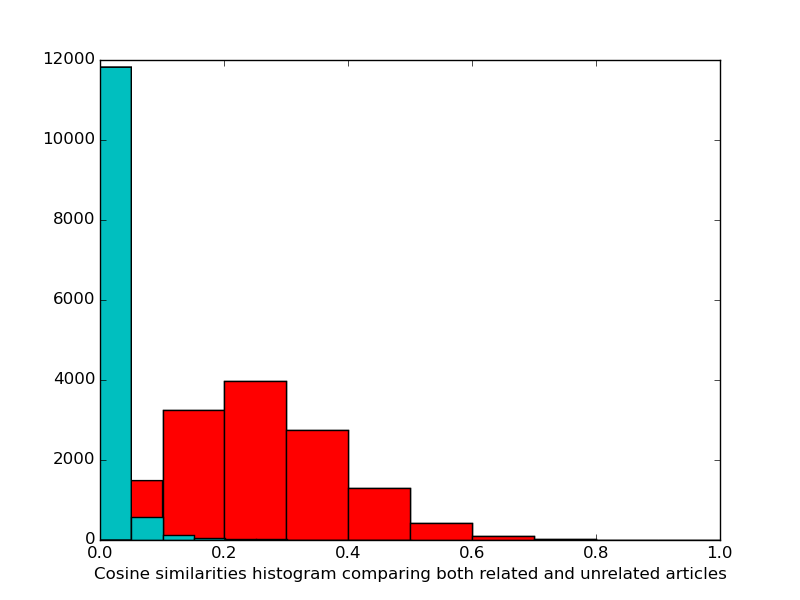
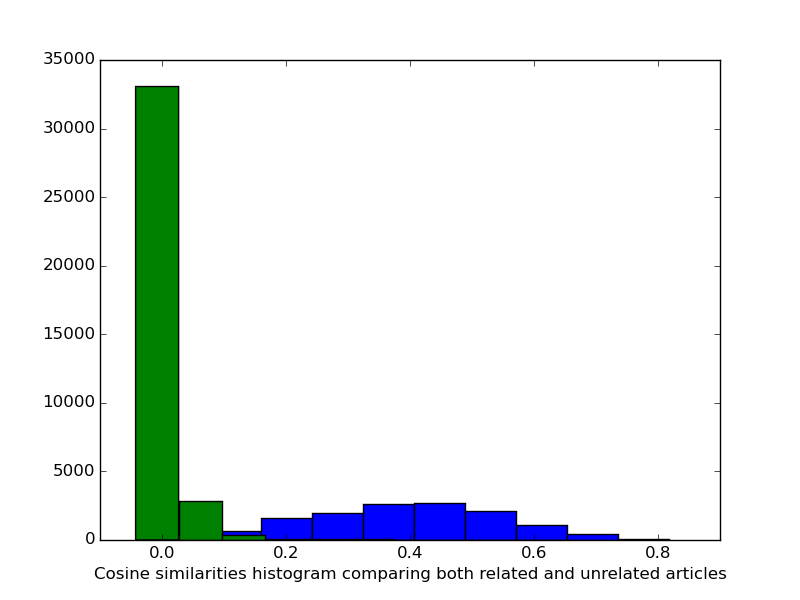
Adding LSI

Changed region(s): [[0.0312, 0.09, 0.8438, 0.93], [0.875, 0.9, 0.9062, 0.93], [0.0625, 0.09, 0.0938, 0.12]]

diff --git a/FncPart1.py b/FncPart1.py
@@ -44,15 +44,15 @@ bodyIds = TrainBodies['Body ID']
 bodyText = TrainBodies['articleBody'] 
 
 bodyText = np.array(bodyText)
+bodyTextOrig = bodyText
 bodyIds = np.array(bodyIds)
-
 bodyText = [line.lower().split() for line in bodyText]
-#bodyText = [[lemmatizer.lemmatize(re.sub('[^a-zA-Z0-9]', '',word)) for word in text if word not in stop] for text in bodyText]
-bodyText = [[(re.sub('[^a-zA-Z0-9]', '',word)) for word in text if word not in stop] for text in bodyText]
+bodyText = [[lemmatizer.lemmatize(re.sub('[^a-zA-Z0-9]', '',word)) for word in text if word not in stop] for text in bodyText]
+
 #create the dictionary for article bodies
 
 bodyDict = dict(zip(bodyIds,bodyText))
-
+bodyDictOrig = dict(zip(bodyIds,bodyTextOrig))
 #create the dictionary of words
 
 dictionary = corpora.Dictionary(bodyDict.values())
@@ -61,39 +61,49 @@ tfIdf = models.TfidfModel(CorporaFNCbody)
 
 FncTfidf = tfIdf[CorporaFNCbody]
 bodyDictString = dict(zip(bodyDict.keys(),range(0,len(bodyDict.values())))) 
-
+#define LSI and number of topics (k)
+lsi = models.LsiModel(FncTfidf, id2word=dictionary, num_topics=150)
+#LSI matrix for FNC body corpus
+FncLsi = lsi[FncTfidf]
 #create the stance corpora 
 
 sents = TrainStances['Headline']
+
 sents = [sent.lower().split() for sent in sents]
-#sents = [[lemmatizer.lemmatize(re.sub('[^a-zA-Z0-9]', '', w)) for w in sent if w not in stop] for sent in sents]
-sents = [[(re.sub('[^a-zA-Z0-9]', '', w)) for w in sent if w not in stop] for sent in sents]
+#sentsOrig = sents
+sents = [[lemmatizer.lemmatize(re.sub('[^a-zA-Z0-9]', '', w)) for w in sent if w not in stop] for sent in sents]
+
 
 stanceDict = dict(zip(range(0,len(np.unique(sents))),np.unique(sents)))
+#stanceDictOrig = dict(zip(range(0,len(np.unique(sentsOrig))),np.unique(sentsOrig)))
 #also define the reverse stance dictionary
 revStanceDict = { str(v): k for k, v in stanceDict.iteritems()}
 
 stanceCorpora = [dictionary.doc2bow(t) for t in stanceDict.values()]
-print ("a sample stance corpora")
-print(stanceCorpora[0])
+#print ("a sample stance corpora")
+#print(stanceCorpora[0])
 
 stanceTfidf = tfIdf[stanceCorpora]
-
+#computing the LSI for stances
+stanceLsi = lsi[stanceTfidf]
 #create a list from stance and article body combination called miniList
 
 TrainStances = np.array(TrainStances)
+TrainStances[:,0] = [a.lower().split() for a in TrainStances[:,0]]
+TrainStances[:,0] = [[lemmatizer.lemmatize(re.sub('[^a-zA-Z0-9]', '', w)) for w in sent if w not in stop] for sent in TrainStances[:,0]]
 miniList = []
 for i in range(0,len(TrainStances)):
-	miniList.append([(revStanceDict[str(sents[i])]),TrainStances[i][1],TrainStances[i][2]])
+	miniList.append([(revStanceDict[str(TrainStances[i][0])]),TrainStances[i][1],TrainStances[i][2]])
 
 
 #compute the similarities of all sentences in the document bodies 
 
-sim = similarities.docsim.MatrixSimilarity(FncTfidf)
-
+#sim = similarities.docsim.MatrixSimilarity(FncTfidf)
+#Get similarities for LSI
+sim = similarities.docsim.MatrixSimilarity(FncLsi)
 #stance to body similarities
 
-Stance2BodySim = [sim.get_similarities(stancetf) for stancetf in stanceTfidf]
+Stance2BodySim = [sim.get_similarities(stancetf) for stancetf in stanceLsi]
 
 #compute cosine similarity for the milist
 cosineSim = [[Stance2BodySim[lst[0]][bodyDictString[lst[1]]] , lst[2]] for lst in miniList]
@@ -102,12 +112,12 @@ cosineSim = [[Stance2BodySim[lst[0]][bodyDictString[lst[1]]] , lst[2]] for lst i
 
 cosineSimUnrelated = []
 for sim in cosineSim:
-    if sim[1] == 'unrelated' and sim[0] > 0.0:
+    if sim[1] == 'unrelated':
         cosineSimUnrelated.append(sim[0])
 
 cosineSimRelated = []
 for sim in cosineSim:
-    if sim[1] != 'unrelated' and sim[0] > 0.0:
+    if sim[1] != 'unrelated':
         cosineSimRelated.append(sim[0])
 
 
@@ -119,7 +129,7 @@ plt.hist(cosineSimUnrelated)
 plt.xlabel("Cosine similarities histogram comparing both related and unrelated articles")
 plt.savefig('plots/histCosineBoth.png')
 
-
+plt.clf()
 #plot cosine threshold and f1 score
 cosineThreshold = np.arange(0.0,1.0,0.01)
 Y = [getCosineThreshold(cosineSim,a) for a in cosineThreshold]
